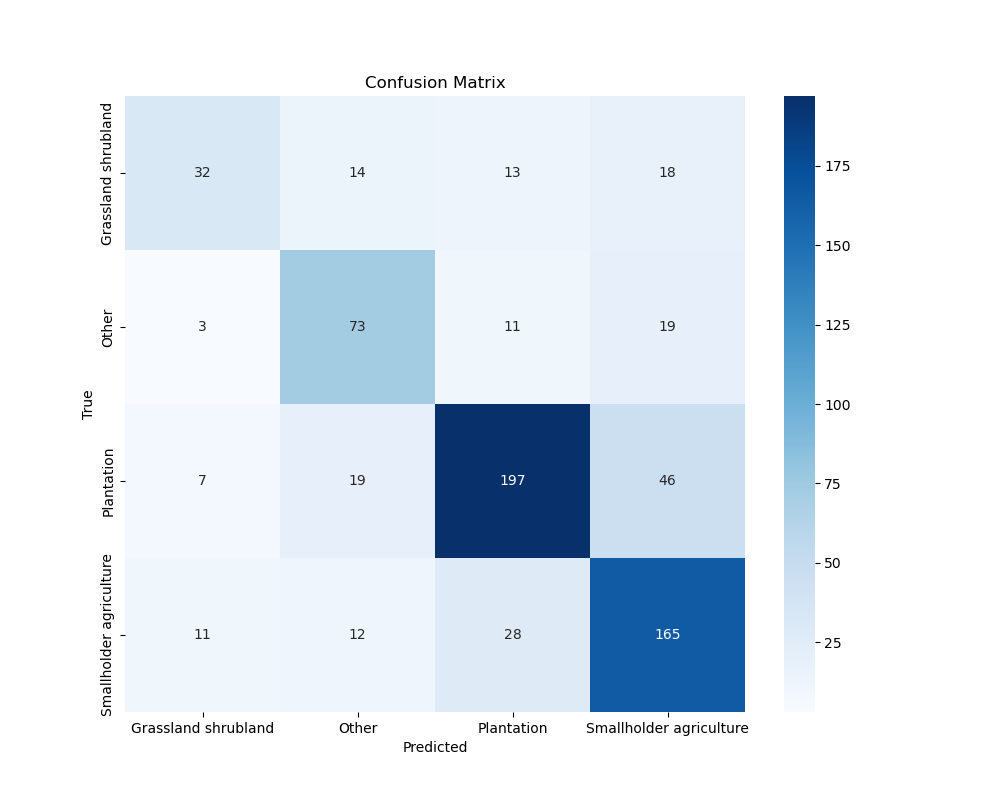
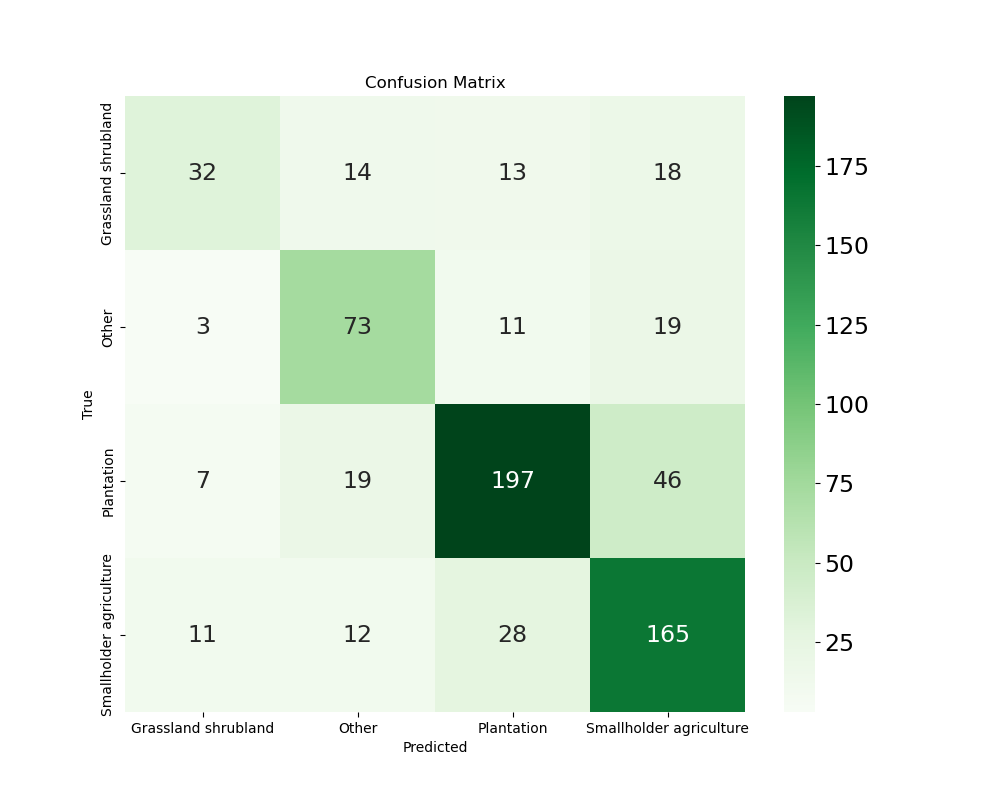
Change colors and font zie for plots

diff --git a/evaluate.py b/evaluate.py
@@ -4,7 +4,7 @@ import os
 
 import torch
 import torch.nn as nn
-from matplotlib import pyplot as plt
+from matplotlib import pyplot as plt, cm
 from collections import defaultdict
 import matplotlib.colors as mcolors
 import numpy as np
@@ -259,11 +259,11 @@ def compare_predictions(model, test_loader, metamorphic_test_loader, device, ind
               f"Changed Prediction Ratio: {changed_ratio_per_class[class_id]:.4f}")
         print(f"  Classes changed to (Counts): {[(index_to_label[class_id], count) for class_id, count in changed_to_class[class_id].items() if count > 0]}")
 
-    # Set up distinct colors for changed predictions
-    # Define a color palette without green (explicitly removing green)
-    distinct_colors = list(mcolors.TABLEAU_COLORS.values())
-    distinct_colors.remove(mcolors.TABLEAU_COLORS["tab:green"])  # Remove green
-    color_map = {class_id: distinct_colors[class_id % len(distinct_colors)] for class_id in changed_to_class}
+    # Define your custom orange shades
+    orange_shades = ["#fcb538", "#e17929", "#c74e29", "#ffde59"]
+
+    # Map class IDs to these colors in a cyclic manner
+    color_map = {class_id: orange_shades[i % len(orange_shades)] for i, class_id in enumerate(changed_to_class)}
 
     # Plotting the ratio of same and changed predictions per class
     plt.figure(figsize=(12, 8))
@@ -290,7 +290,7 @@ def compare_predictions(model, test_loader, metamorphic_test_loader, device, ind
         same_height = same_ratio_per_class[class_id]
         changed_height = sum([changed_ratio_per_class[class_id] for class_id in changed_to_class])  # for all changes
         # Adding text for "same" predictions
-        plt.text(class_id, same_height / 2, f'{same_height:.4f}', ha='center', va='center', fontsize=10, color='white')
+        plt.text(class_id, same_height / 2, f'{same_height:.4f}', ha='center', va='center', fontsize=20, color='white')
         # Adding text for "changed" predictions
         plt.text(class_id, same_height + changed_height / 2, f'{changed_height:.4f}', ha='center', va='center',
                  fontsize=10, color='white')
@@ -298,6 +298,7 @@ def compare_predictions(model, test_loader, metamorphic_test_loader, device, ind
     # Labeling
     plt.xlabel('Classes')
     plt.ylabel('Prediction Ratio')
+    plt.tick_params(axis='y', labelsize=15)
     plt.title('Comparison of Same and Changed Predictions for Each Class')
     plt.xticks(range(len(index_to_label)), [index_to_label[class_id] for class_id in range(len(index_to_label))],
                rotation=45)
@@ -322,6 +323,6 @@ def compare_predictions(model, test_loader, metamorphic_test_loader, device, ind
 
 
 if __name__ == "__main__":
-    # performance_metrics()
-    metamorphic_testing()
+    performance_metrics()
+    # metamorphic_testing()
 

diff --git a/utils/visualization.py b/utils/visualization.py
@@ -37,12 +37,19 @@ def plot_confusion_matrix(conf_matrix, class_names, output_path='outputs/confusi
         class_names: List of class names
     """
     plt.figure(figsize=(10, 8))
-    sns.heatmap(conf_matrix, annot=True, fmt='d', cmap='Blues',
-                xticklabels=class_names, yticklabels=class_names)
+    ax = sns.heatmap(conf_matrix, annot=True, fmt='d', cmap='Greens',
+                     xticklabels=class_names, yticklabels=class_names,
+                     annot_kws={"size": 17})  # Adjust color bar size
     plt.xlabel('Predicted')
     plt.ylabel('True')
     plt.title('Confusion Matrix')
+
+    # Increase font size for color bar (legend)
+    cbar = ax.collections[0].colorbar  # Access color bar
+    cbar.ax.tick_params(labelsize=17)  # Increase font size of color bar ticks
     plt.savefig(output_path)
+
+
     # plt.show()
 
 def visualize_samples(dataset, class_names, num_samples=5):
